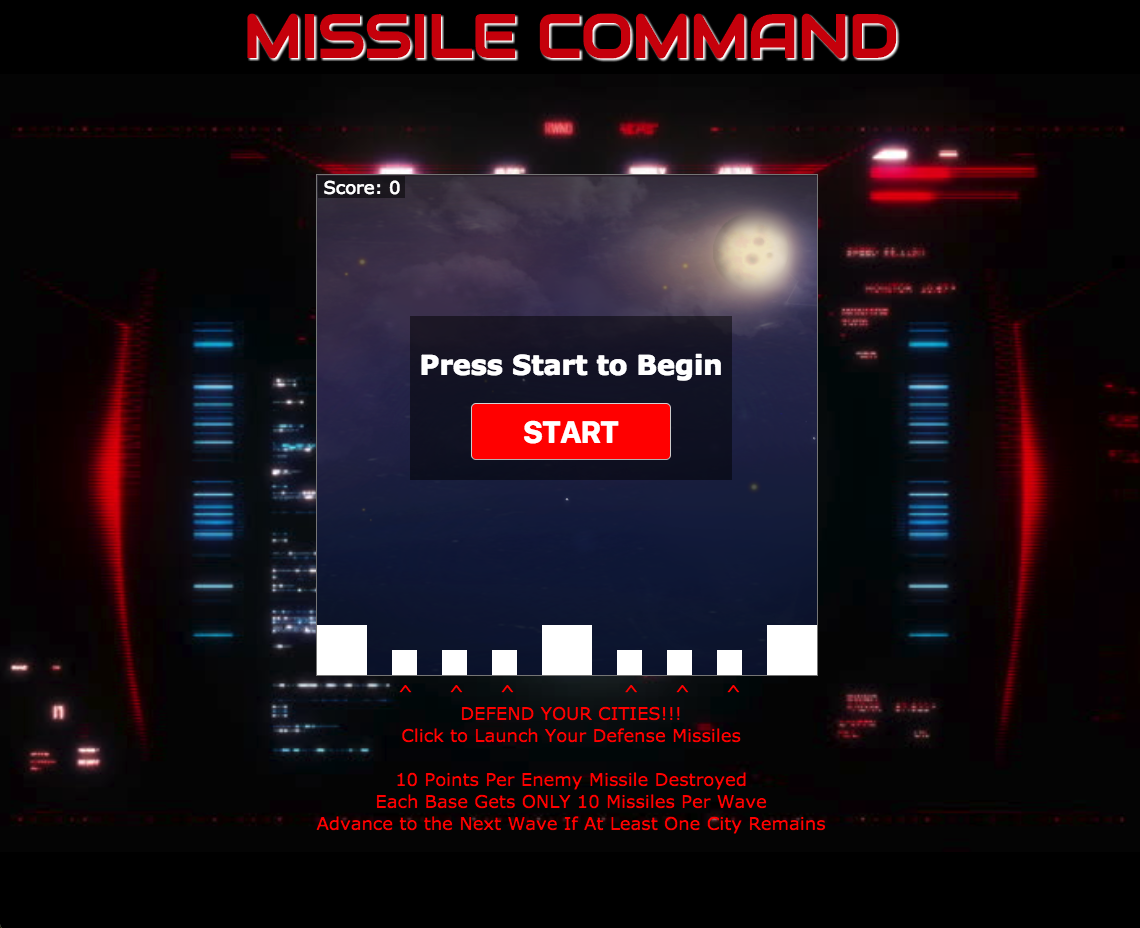
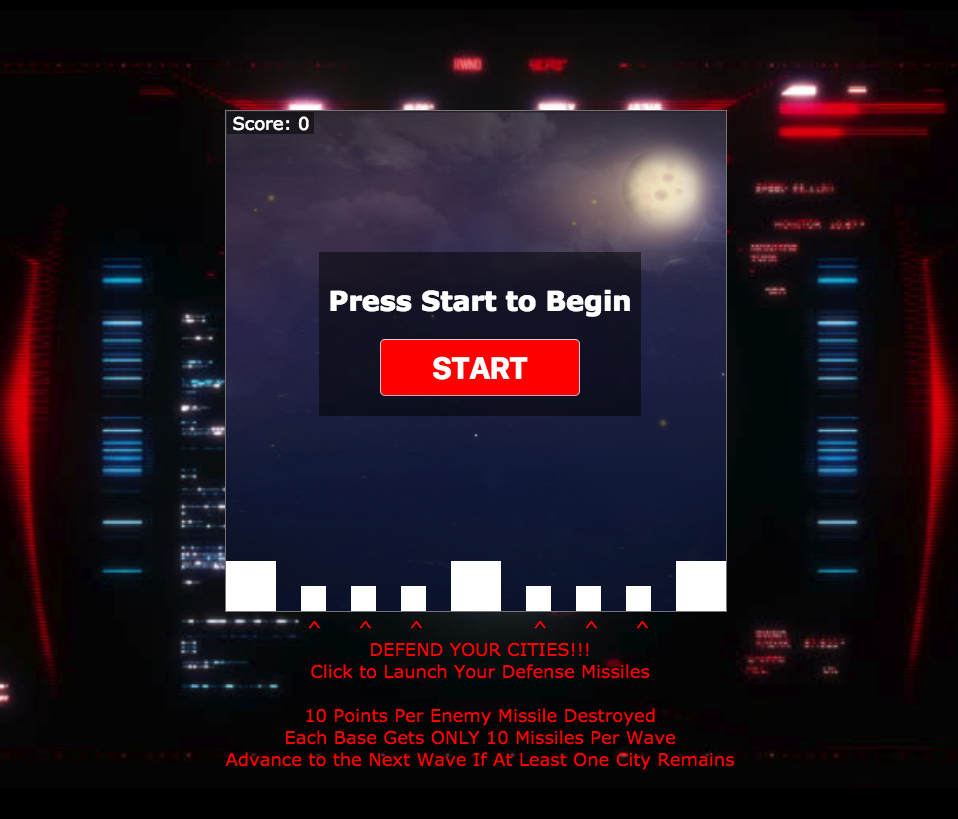
Update readme and remove h1

diff --git a/index.html b/index.html
@@ -5,7 +5,6 @@
   <title>Game Time</title>
 </head>
 <body>
-  <h1>MISSILE COMMAND</h1>
   <div class="game-background">
     <div class="game-ui">
       <article class="start-screen">

diff --git a/lib/style.css b/lib/style.css
@@ -48,7 +48,7 @@ h2 {
   height: 500px;
   width: 500px;
   position: absolute;
-  top: 150px;
+  top: 100px;
   display: flex;
   justify-content: center;
   align-items: center;
